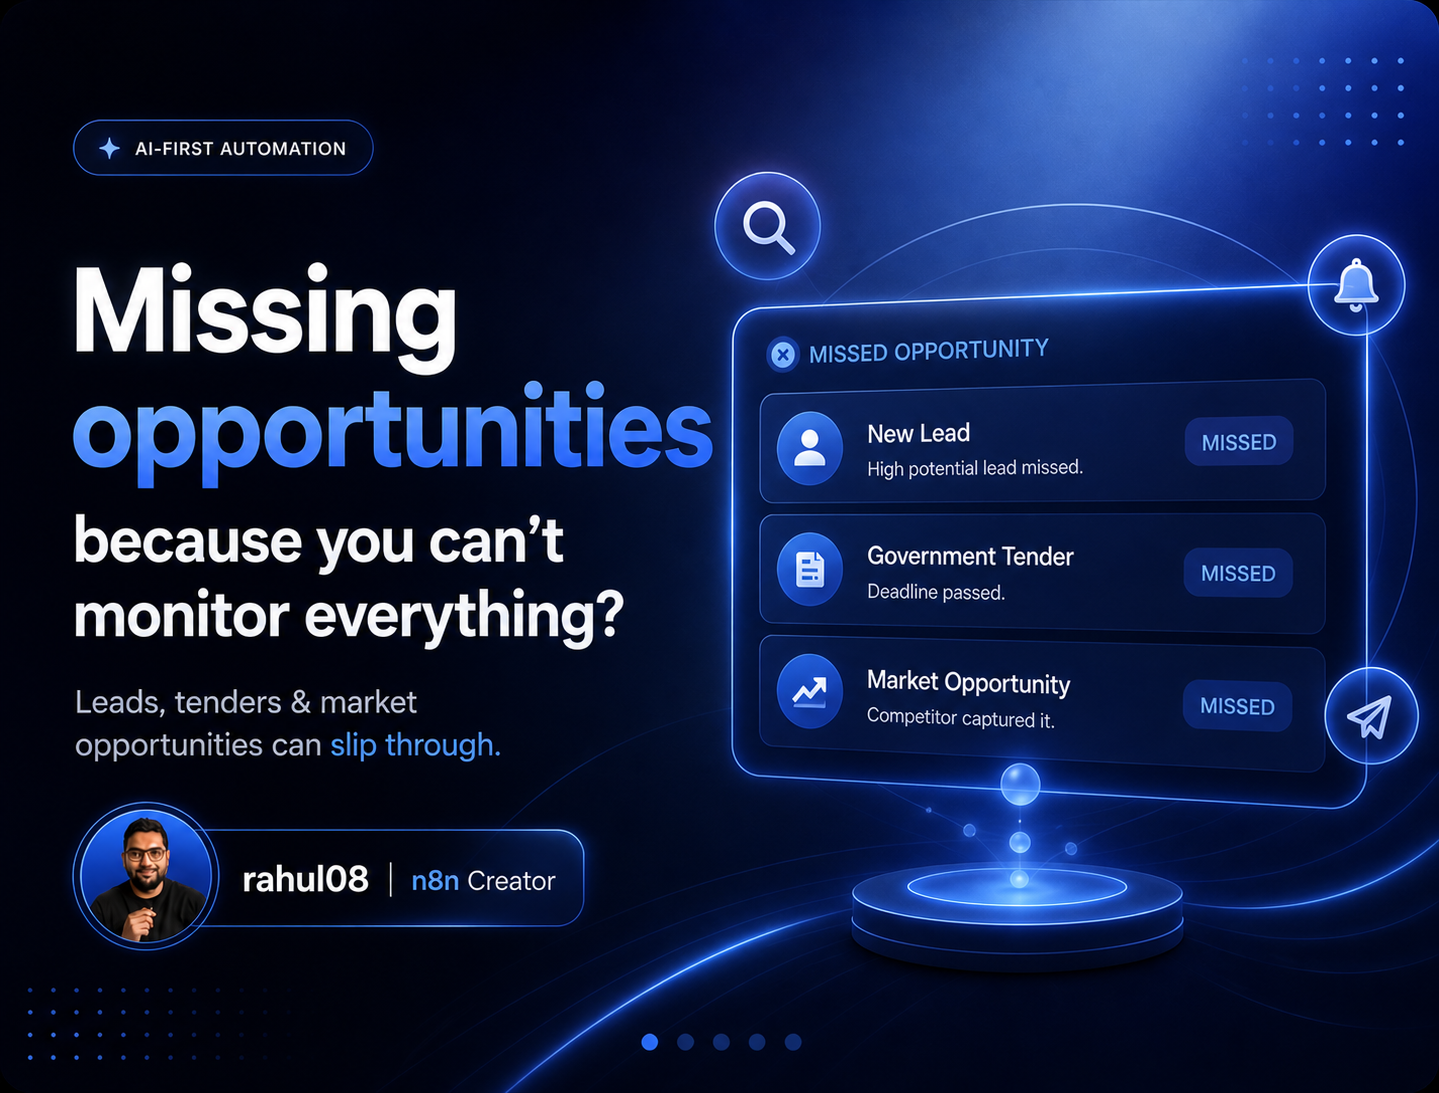
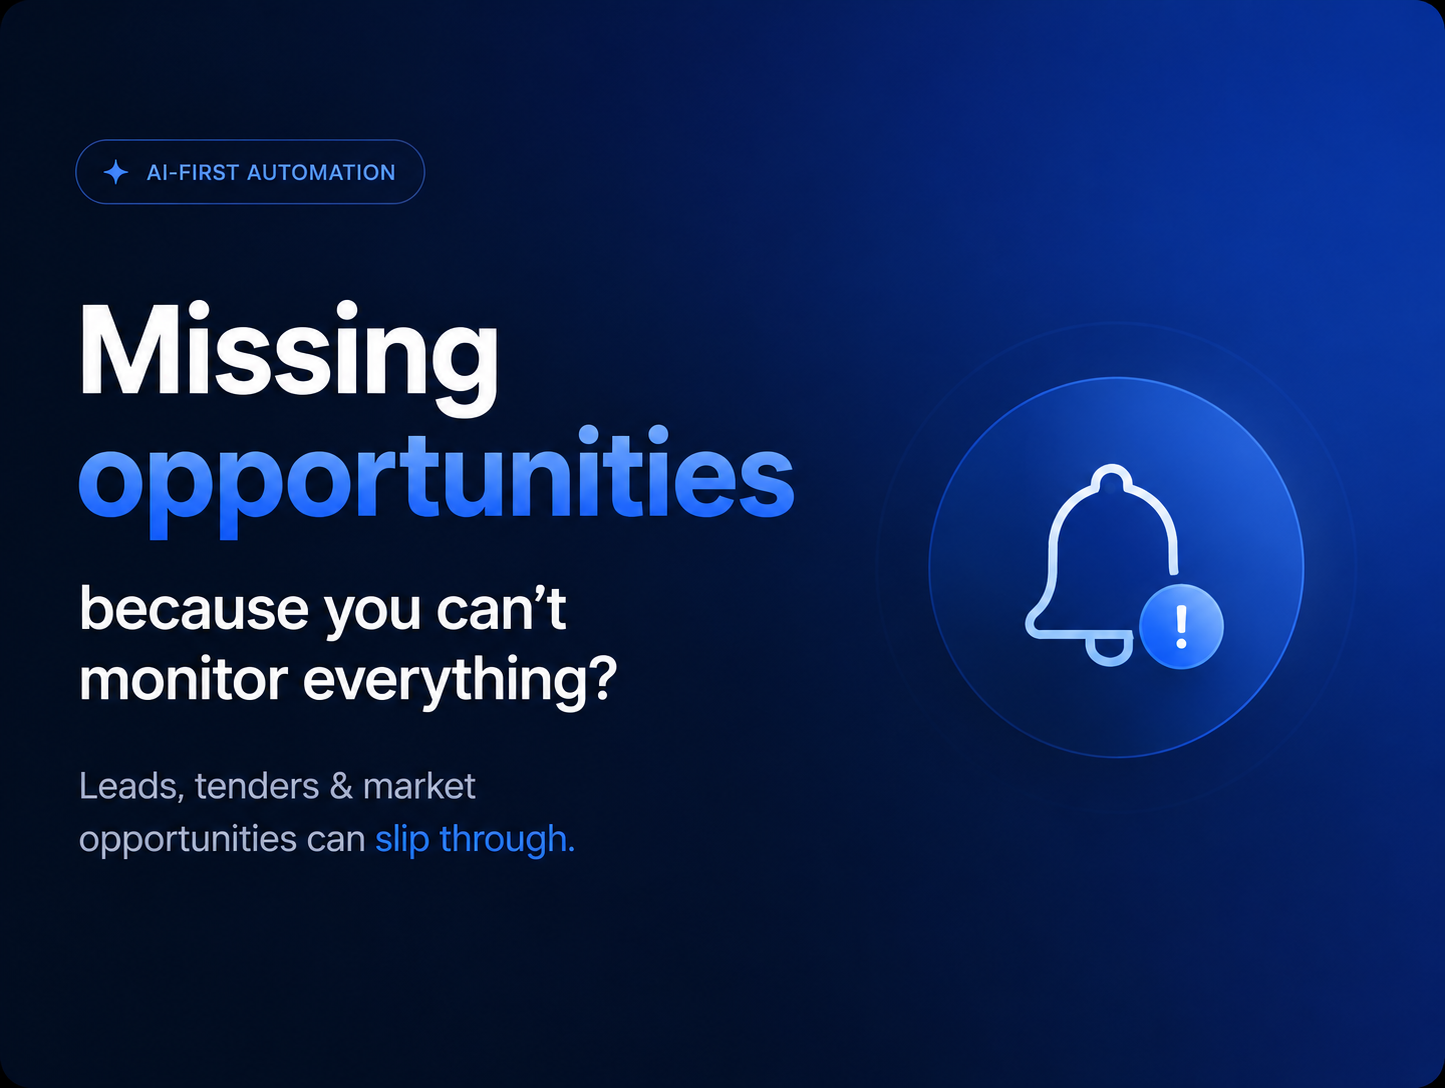
Use the refined poster set across carousel slides 01-04

diff --git a/src/sections/Showcase.jsx b/src/sections/Showcase.jsx
@@ -2,6 +2,8 @@ import { useCallback, useEffect, useRef, useState } from 'react'
 import './Showcase.css'
 import slide01 from '../assets/slide-01.png'
 import slide02 from '../assets/slide-02.png'
+import slide03 from '../assets/slide-03.png'
+import slide04 from '../assets/slide-04.png'
 
 const SHADES = [
   'linear-gradient(158deg, #6FC3F7 0%, #2E86D9 100%)',
@@ -24,8 +26,16 @@ const DECKS = {
       sub: 'A workflow blueprint built around your stack.',
       image: slide02,
     },
-    { title: 'Scale', sub: 'From one task to millions, effortlessly.' },
-    { title: 'Monitor', sub: 'Live logs and alerts on every run.' },
+    {
+      title: 'Scale',
+      sub: 'From one task to millions, effortlessly.',
+      image: slide03,
+    },
+    {
+      title: 'Monitor',
+      sub: 'Live logs and alerts on every run.',
+      image: slide04,
+    },
     { title: 'Ship', sub: 'Deploy automations in minutes, not weeks.' },
   ],
   vsl: [
